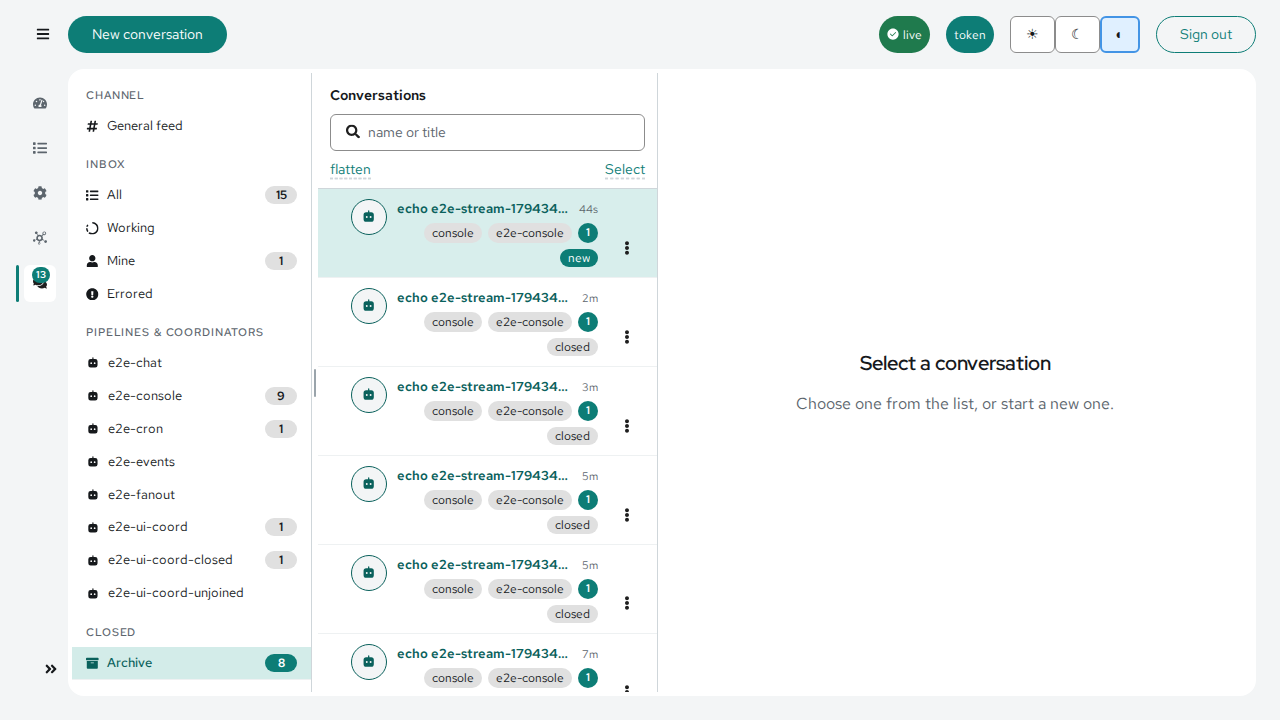
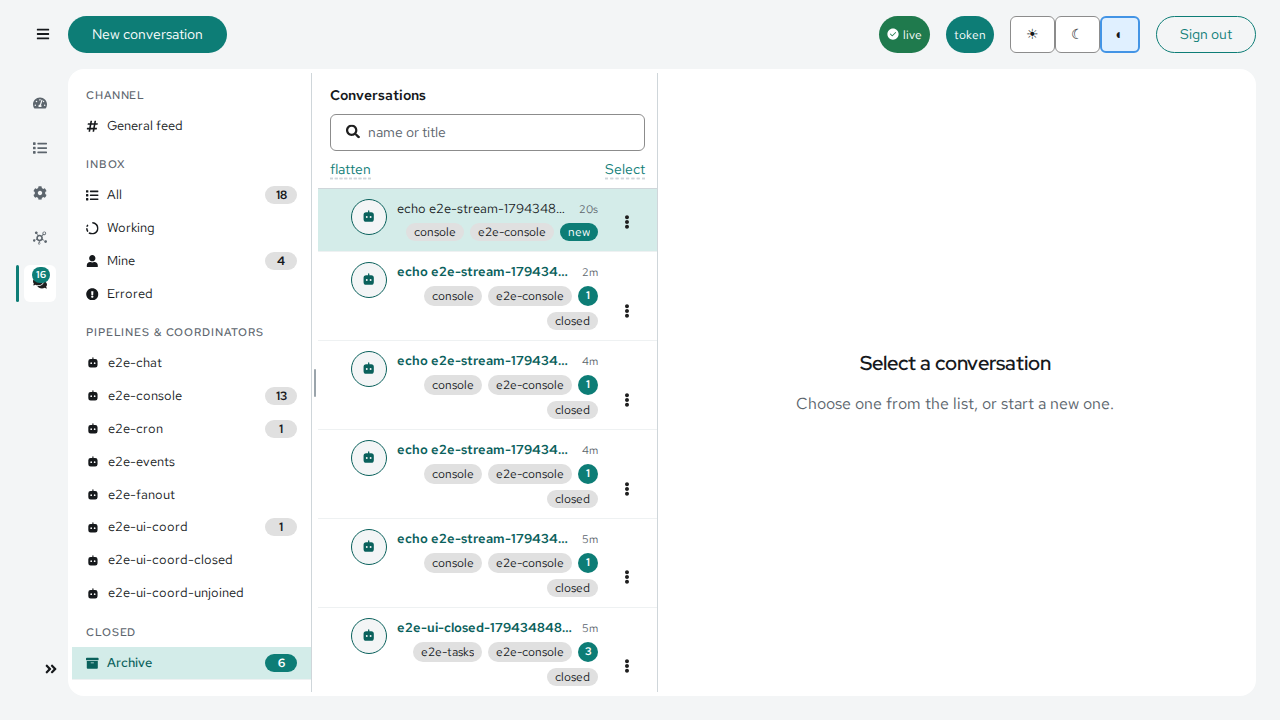
docs: changelog entry for the feed start fix, refreshed proof screenshot
Refs #465

Changed region(s): [[0.25, 0.275, 0.5312, 0.9778], [0.1875, 0.7639, 0.25, 0.7944]]

diff --git a/docs/CHANGELOG.md b/docs/CHANGELOG.md
@@ -155,6 +155,9 @@ for the source and the reference material beside this file.
   its own handler.
 - A chat message whose conversation cannot be read is refused for retry
   instead of dropped.
+- A state-store feed opened without a resume point no longer skips what is
+  written after the server resets its consumer. The reconciler could miss new
+  conversations for good, leaving them with no status and no pod.
 
 ### Upgrade
 
